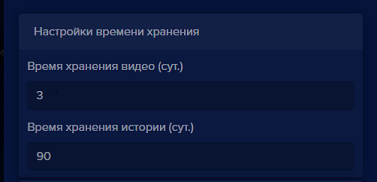
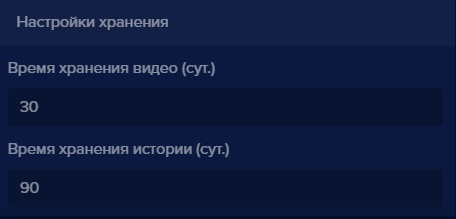
desc

Changed region(s): [[0.0, 0.0, 0.5252, 1.0], [0.0584, 0.989, 0.9629, 1.0]]

diff --git a/content/03-v3.7.0/4-functional/2-commonsettings/2-commonsettings.md b/content/03-v3.7.0/4-functional/2-commonsettings/2-commonsettings.md
@@ -12,9 +12,9 @@ sort: "11"
 
 ![](images/Screenshot_151.png)
 
-#### Настройки времени хранения
+#### Настройки хранения
 
-**Настройки времени хранения** позволяют менять время хранения файлов в видеоархиве и время хранения записей в истории. По умолчанию видеоархив хранится 3 суток, записи в истории хранятся 90 суток.
+**Настройки хранения** позволяют менять время хранения файлов в видеоархиве и время хранения записей в истории. По умолчанию видеоархив хранится 3 суток, записи в истории хранятся 90 суток.
 
 ![](images/Screenshot_152.png)
 
